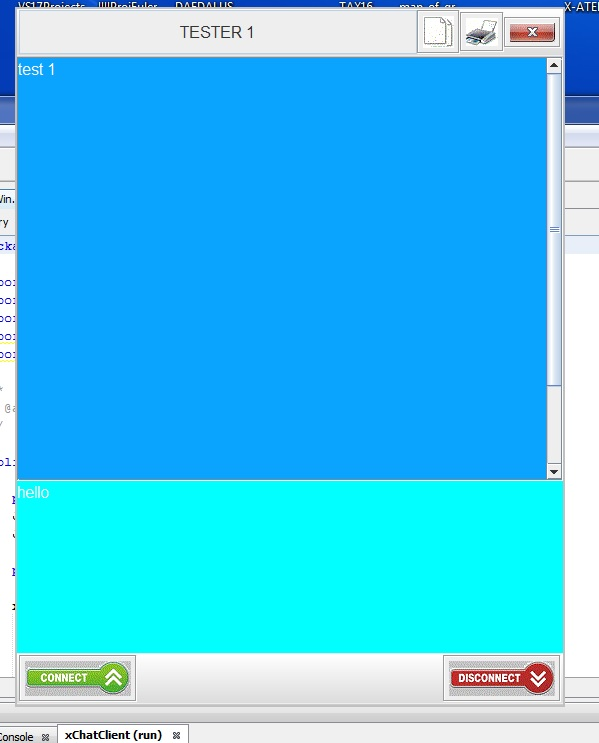
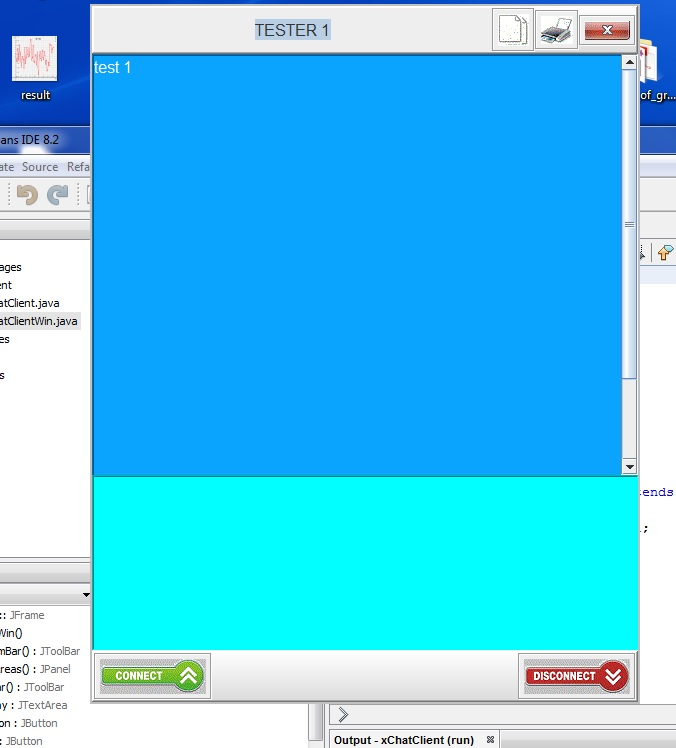
init, improve l/f
improve

Changed region(s): [[0.0, 0.0, 1.0, 1.0]]

diff --git a/03_xChatClientWin.java b/03_xChatClientWin.java
@@ -16,6 +16,12 @@ public class xChatClientWin extends JFrame {
     JTextArea topdisplay;
     JTextArea bottomdisplay;
     
+    JButton copyButton;
+    JButton printButton;
+    JButton exitButton;
+    JButton connectButton;
+    JButton disconnectButton;
+    
     private int lastX, lastY;
     
     xChatClientWin() {
@@ -63,6 +69,10 @@ public class xChatClientWin extends JFrame {
         topdisplay.append("test 1\n");
 
         JScrollPane scroll = new JScrollPane(topdisplay);
+
+        topdisplay.setBorder(BorderFactory.createLoweredBevelBorder());
+        scroll.setBorder(null);
+
         scroll.setHorizontalScrollBarPolicy(ScrollPaneConstants.HORIZONTAL_SCROLLBAR_NEVER);
         panel.add(scroll);
         
@@ -71,7 +81,9 @@ public class xChatClientWin extends JFrame {
         bottomdisplay.setForeground(Color.white);
         bottomdisplay.setFont(bottomdisplay.getFont().deriveFont(16f));
         bottomdisplay.setLineWrap(true);        
-     
+
+        bottomdisplay.setBorder(BorderFactory.createLoweredBevelBorder());
+        
         panel.add(bottomdisplay);
         
         return panel;
@@ -81,20 +93,22 @@ public class xChatClientWin extends JFrame {
     private JToolBar createTopBar() {
         
         JToolBar tb =  new JToolBar(); tb.setFloatable(false);
+        tb.setBorder(BorderFactory.createRaisedBevelBorder());
 
         toplabel = new JTextField(5);
         toplabel.setFont(toplabel.getFont().deriveFont(16f));
         toplabel.setEditable(false);
         toplabel.setHorizontalAlignment(JTextField.CENTER);
+        toplabel.setBorder(null);
         tb.add(toplabel);
         
-        JButton copyButton = new JButton(new ImageIcon("copy.gif"));
+        copyButton = new JButton(new ImageIcon("copy.gif"));
         tb.add(copyButton);
         
-        JButton printButton = new JButton(new ImageIcon("print.gif"));
+        printButton = new JButton(new ImageIcon("print.gif"));
         tb.add(printButton);
         
-        JButton exitButton = new JButton(new ImageIcon("exit.gif"));
+        exitButton = new JButton(new ImageIcon("exit.gif"));
         exitButton.addActionListener(new CloseListener());
         tb.add(exitButton);
         
@@ -104,12 +118,13 @@ public class xChatClientWin extends JFrame {
     private JToolBar createBottomBar() {
 
         JToolBar tb =  new JToolBar(); tb.setFloatable(false);
+        tb.setBorder(BorderFactory.createRaisedBevelBorder());
         
-        JButton connectButton = new JButton(new ImageIcon("connect.gif"));
+        connectButton = new JButton(new ImageIcon("connect.gif"));
         tb.add(connectButton);
         connectButton.addActionListener(new SendEvent());
         
-        JButton disconnectButton = new JButton(new ImageIcon("disconnect.gif"));
+        disconnectButton = new JButton(new ImageIcon("disconnect.gif"));
         tb.add(Box.createHorizontalGlue());
         disconnectButton.addActionListener(new DisconnectEvent());
         tb.add(disconnectButton);
